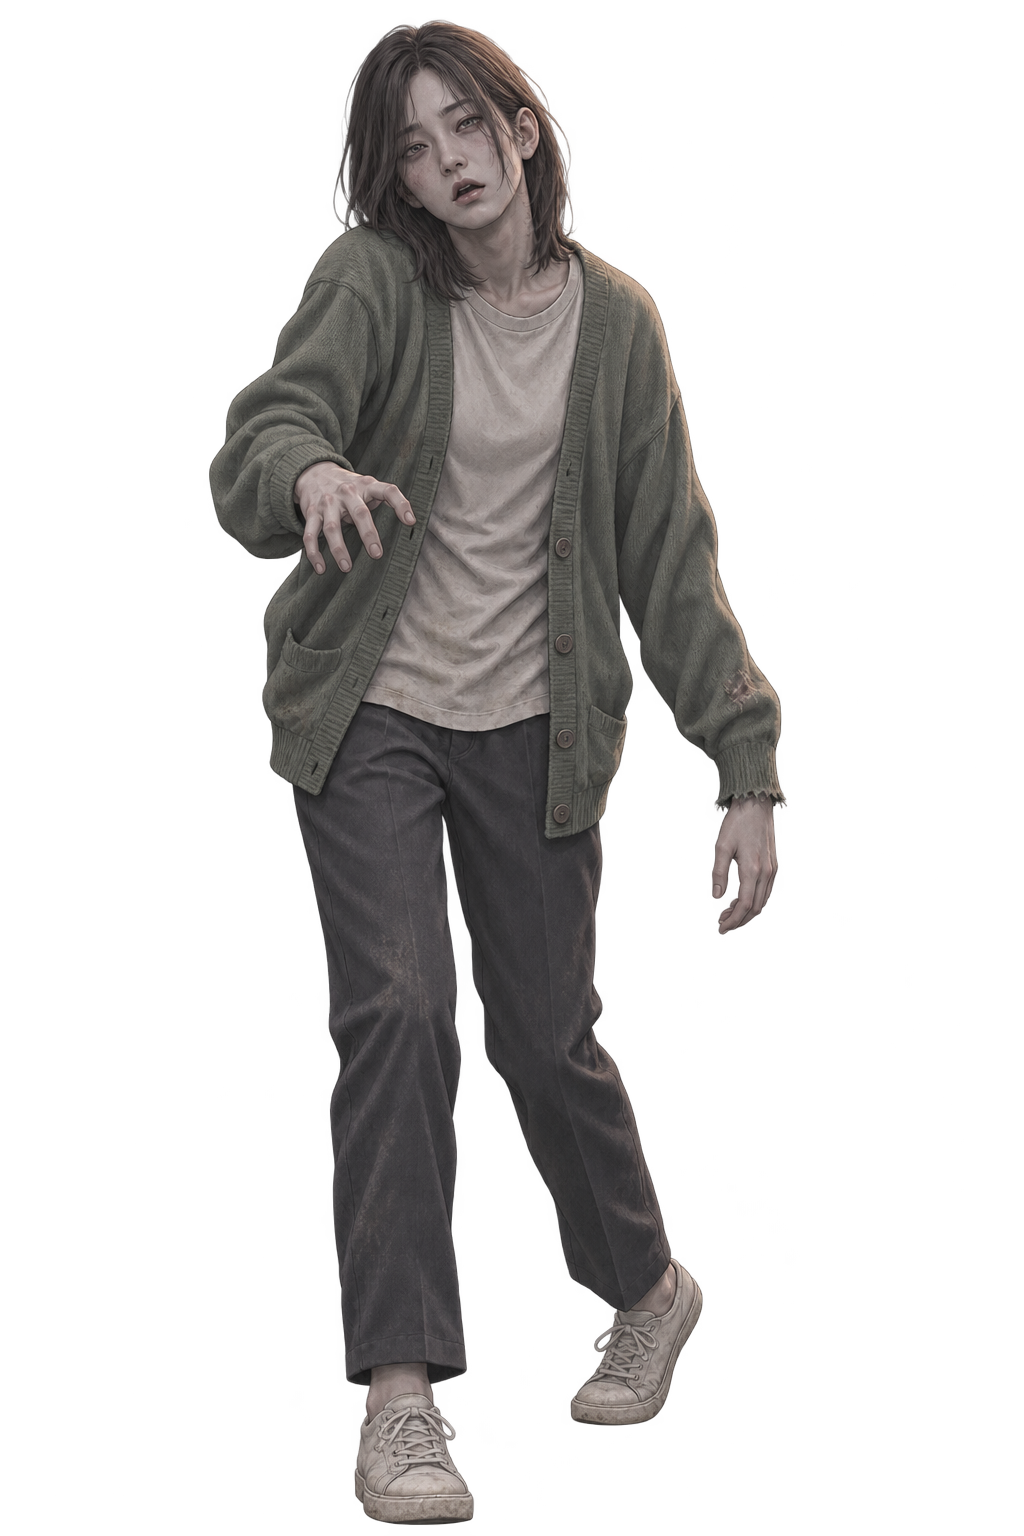
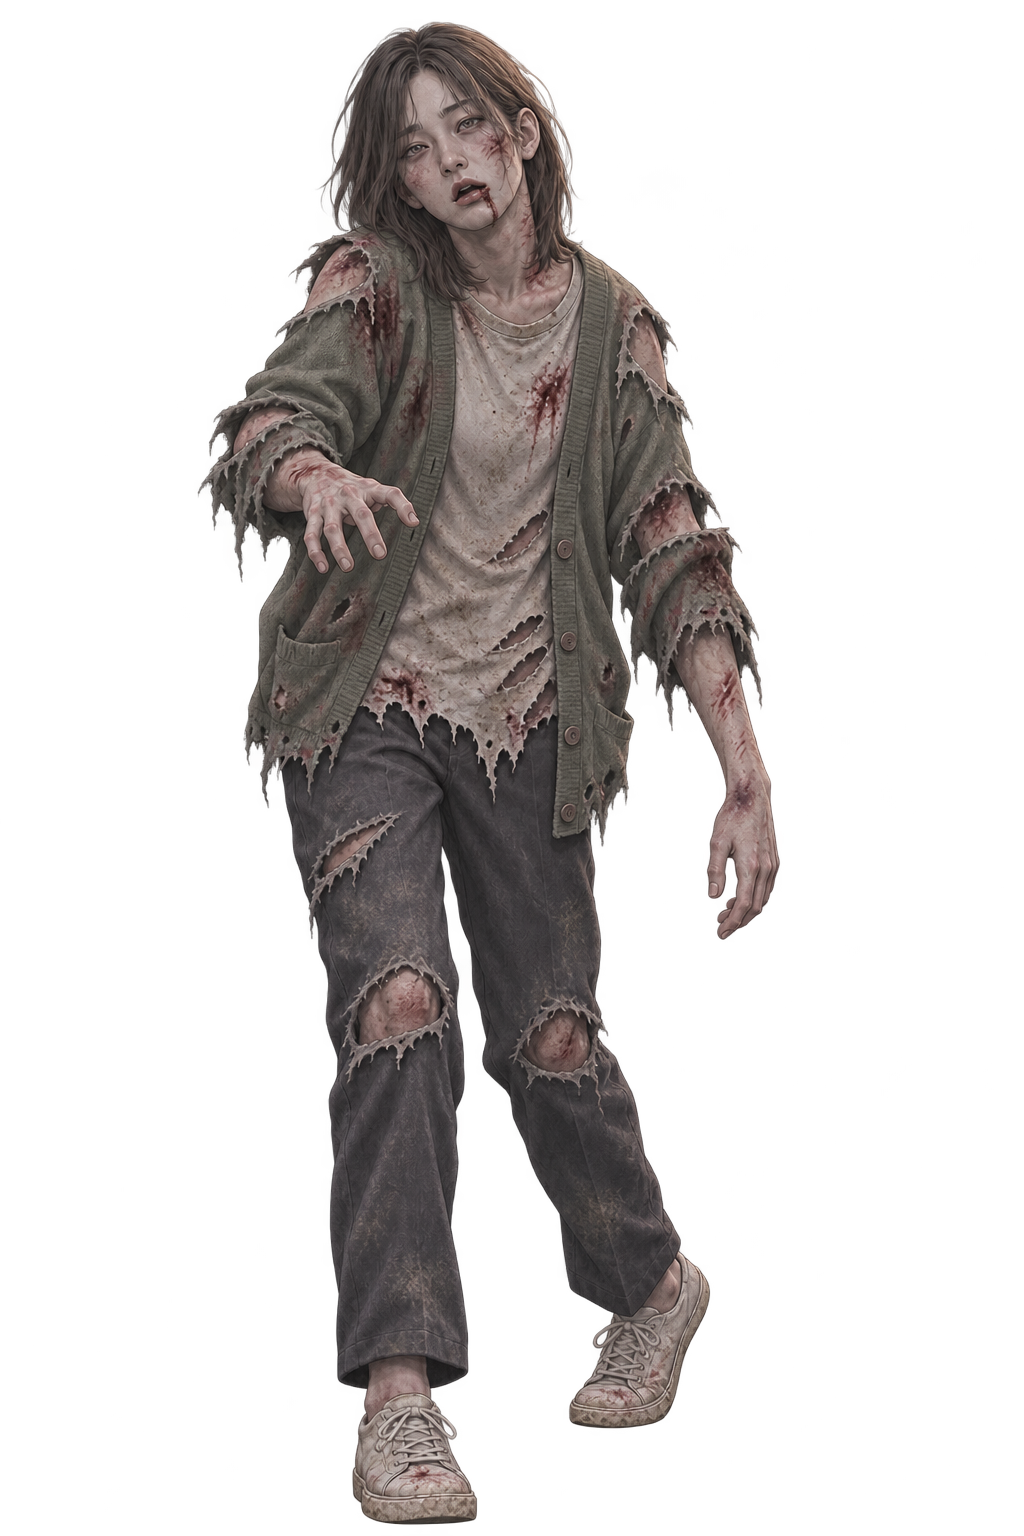
Increase torn clothing and visible injuries on both basic infected concepts

diff --git a/docs/ui-direction.md b/docs/ui-direction.md
@@ -601,3 +601,6 @@ NPC의 피로·부담·대화 여유는 숫자 게이지나 속마음 설명 대
 `zombie-basic-wanderer.png`는 첫 일반 감염체/배회형의 대표 전신 시안이다. 기존 대학생 캐릭터와 어울리는 입체적인 명암과 낮은 채도를 사용하고, 평범한 성인의 비율·일상복·흐린 초점·처진 어깨·발을 끄는 자세로 구별한다. 특정 주요 캐릭터의 감염 모습이 아니다. 투명 배경의 설정 검토용 원화로 저장했으며 기존 도트 전투 그림과 화면 배치를 교체하지 않는다.
 
 여성 배회형 전신 시안 `zombie-basic-wanderer-female.png`를 추가했다. 남성형과 명암·채도를 맞추고 머리 길이·얼굴 윤곽·가디건·자세로 외형을 구별한다. 이름 없는 성인 대학생의 외형 변주이며 주요 인물의 감염 모습이나 새 전투 유형이 아니다. 설정 검토용 투명 PNG로 저장했다.
+
+
+기본 감염체 남녀 원화의 손상 표현을 함께 강화했다. 같은 얼굴·체형·포즈·그림체를 유지하며, 어깨/소매/밑단/무릎의 찢긴 옷과 실밥·피부 상처·멍·핏자국을 추가했다. 사용자 지정 R18 제작 방향을 반영한 원화 수정이며 실제 등급 인증을 뜻하지 않는다. 동일한 두 PNG 파일을 갱신하고 투명 배경과 전신 구도를 유지했다.
